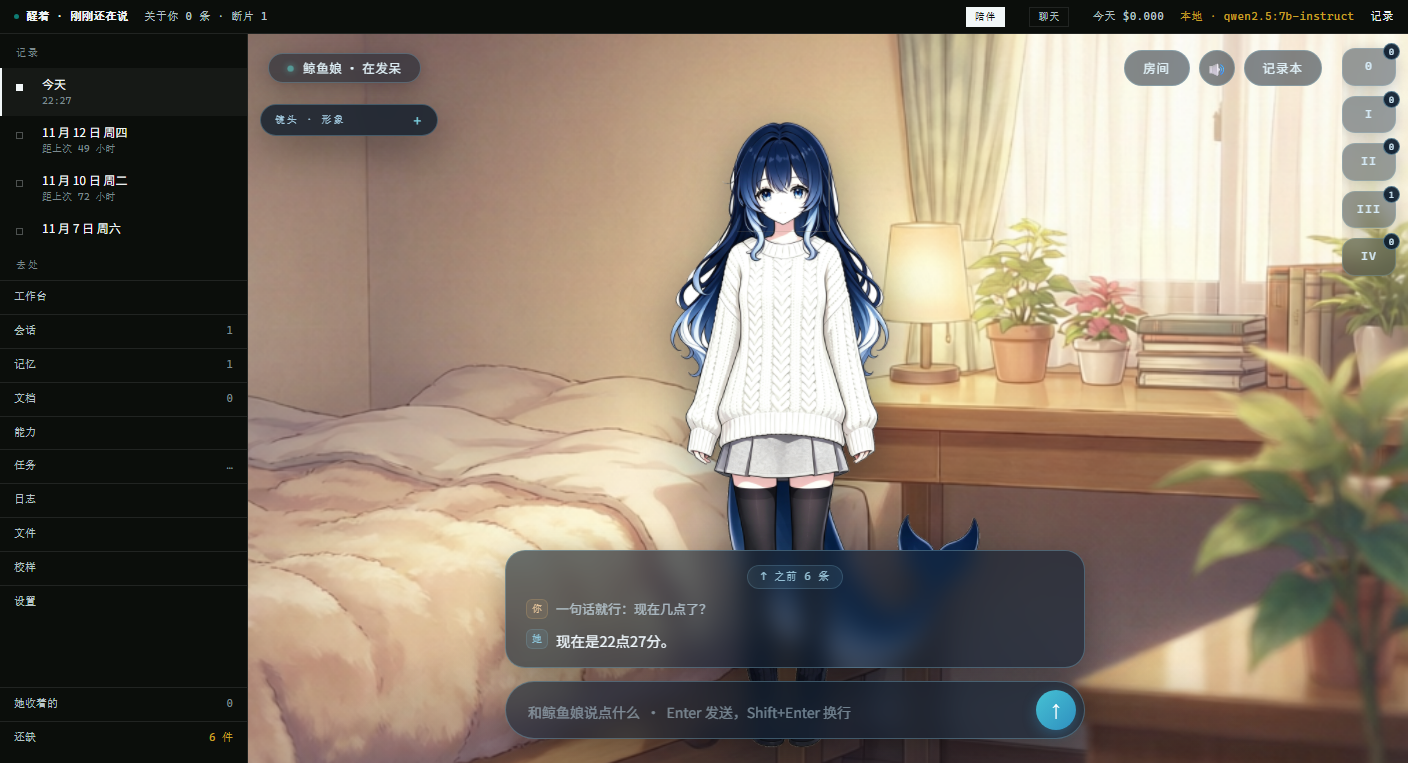
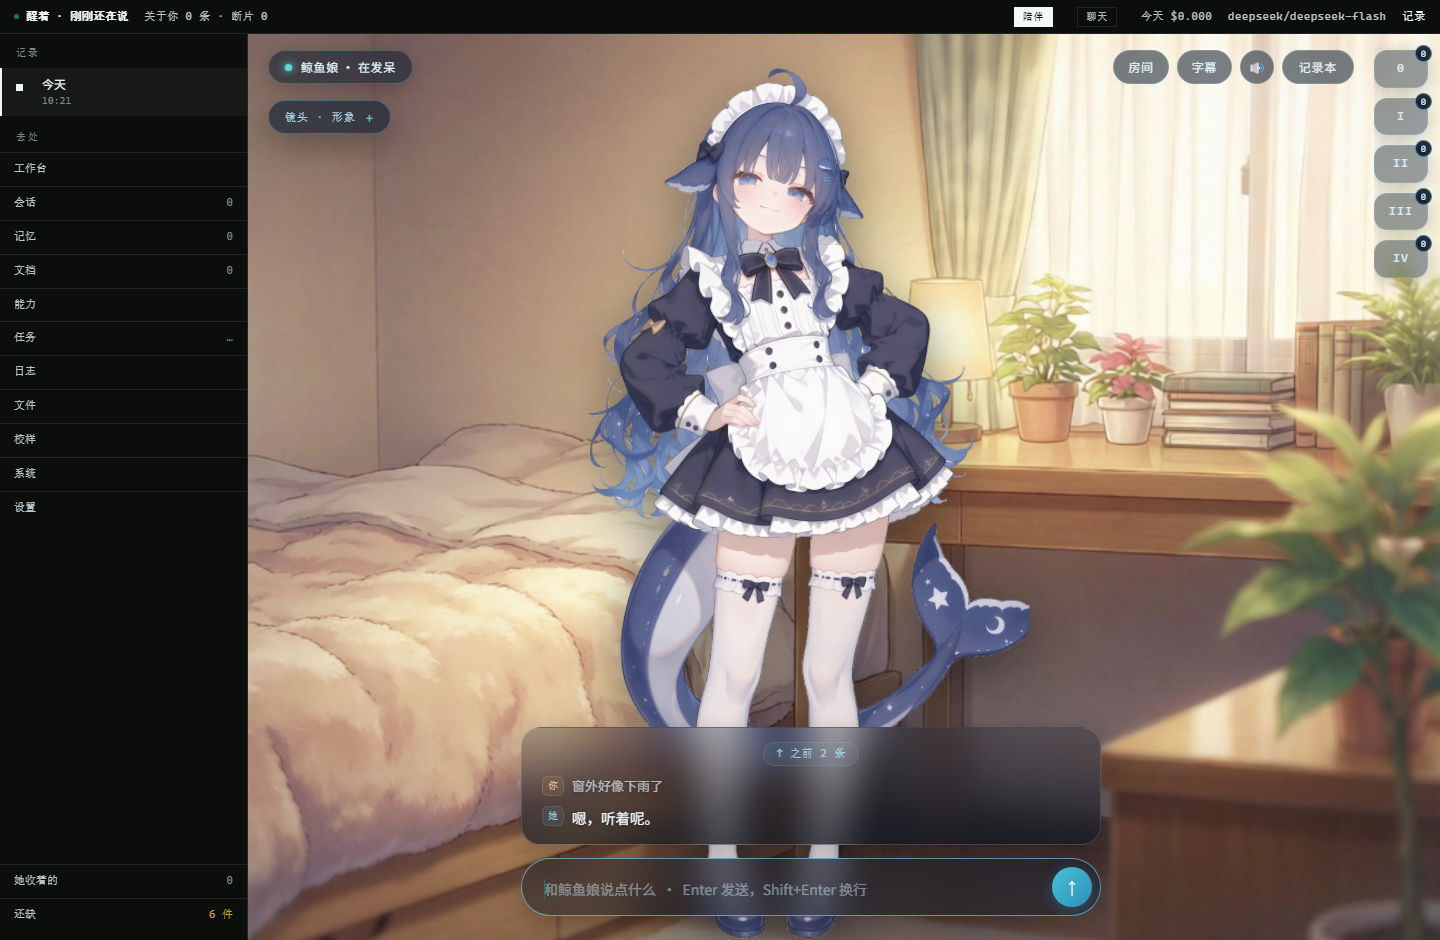
docs: README 三张图全部改为当前版本实拍
弃用 11-13/11-14 的存档截图，改用当前源码界面重截：深色房间陪伴窗口、浅色主题+海洋背景陪伴窗口、工作台。用独立临时 JJ_HOME + headless Edge CDP（点陪伴开关、切主题/背景）截取，1440x940，不碰真实数据。中英文 README 标注实拍日期并把「浅色」措辞精确为「浅色主题 / light UI」。

diff --git a/README.md b/README.md
@@ -13,7 +13,7 @@
 
 ![Companion mode — the room (dark)](docs/images/companion-room.png)
 
-> The companion window is above; the notebook and workbench are shown below.
+> Captured 2026-11-15 from the current build. The companion window is above; the notebook and workbench are shown below.
 
 ## What it is
 
@@ -42,9 +42,9 @@ The same memory and persona can live in a lighter window: she stands on your des
 
 ## Today
 
-| Companion · Ocean (light) | Workbench |
+| Companion · Ocean (light UI) | Workbench |
 |---|---|
-| ![Companion mode — the ocean (light)](docs/images/companion-ocean.png) | ![Workbench](docs/images/workbench.png) |
+| ![Companion mode — ocean backdrop (light UI)](docs/images/companion-ocean.png) | ![Workbench](docs/images/workbench.png) |
 
 Two themes (dark / light) and two ways to be with her: a companion window, or the full notebook / workbench. Switch at runtime; layout, type scale and rhythm stay the same — only the palette and density change.
 

diff --git a/README.zh-CN.md b/README.zh-CN.md
@@ -13,7 +13,7 @@
 
 ![陪伴模式 · 房间（深色）](docs/images/companion-room.png)
 
-> 上图是陪伴窗口；记录本与工作台见下方。
+> 三张图均于 2026-11-15 从当前版本实拍。上图是陪伴窗口；记录本与工作台见下方。
 
 ## 它是什么
 
@@ -44,9 +44,9 @@
 
 ## 现在的样子
 
-| 陪伴 · 海洋（浅色） | 工作台 |
+| 陪伴 · 海洋（浅色主题） | 工作台 |
 |---|---|
-| ![陪伴模式 · 海洋（浅色）](docs/images/companion-ocean.png) | ![工作台](docs/images/workbench.png) |
+| ![陪伴模式 · 海洋背景（浅色主题）](docs/images/companion-ocean.png) | ![工作台](docs/images/workbench.png) |
 
 两套主题（深色 / 浅色）与两种相处方式：陪伴窗口，或完整的记录本 / 工作台。随时切换，版式、字号、行高一致，只换配色与密度。
 
